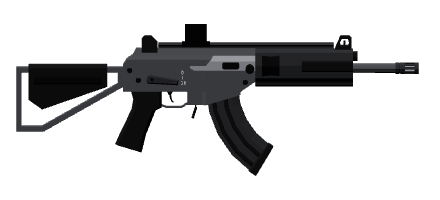
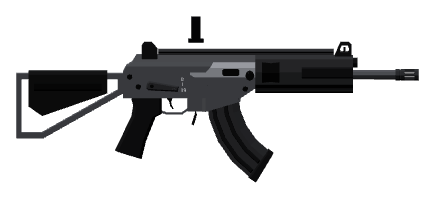
레드도트 정조준 가림 수정: 얇은 테두리·넓은 창, 눈 가까이, 앞쪽 부품 위로 올림
Claude-Session: https://claude.ai/code/session_01V25GXjxPokQixAMpYjxiC2

Changed region(s): [[0.0295, 0.06, 0.975, 0.93]]

diff --git a/models.js b/models.js
@@ -33,19 +33,22 @@ const VIEW_SCALE = 1.714;   // 1인칭 화면용 크기 (기존 돌격소총과 
 const MAX_LEN = 1.6;        // 너무 긴 총은 화면을 가리지 않게 줄임
 const TRIGGER_Z = 0.06;
 // 조준선 높이(총 윗면 기준): 도트사이트, 스코프, 가늠쇠
-const SIGHT = { dot: 0.036, scope: 0.055, none: 0.018 };
+const DOT_Y = 0.036;      // 도트사이트 창 가운데 높이(받침 기준)
+const SIGHT = { dot: 0.006 + DOT_Y, scope: 0.055, none: 0.018 };
 // 모델이 오기 전 상자 길이 (모델 실제 길이 × VIEW_SCALE과 비슷하게)
 const ROUGH_LEN = { ar: 1.2, br: 1.35, dmr: 1.3, smg: 0.9, pistol: 0.36, sg: 1.3, sniper: 1.6 };
 
 function makeDot() {
+  // 얇은 테두리 + 넓은 창: 정조준할 때 테두리가 목표를 가리지 않게
   const sight = new THREE.Group();
-  sight.add(box(0.05, 0.012, 0.09, M.darkMetal, 0, 0, 0));
-  sight.add(box(0.008, 0.055, 0.07, M.darkMetal, -0.024, 0.03, 0));
-  sight.add(box(0.008, 0.055, 0.07, M.darkMetal, 0.024, 0.03, 0));
-  sight.add(box(0.05, 0.008, 0.07, M.darkMetal, 0, 0.058, 0));
-  const lens = new THREE.Mesh(new THREE.PlaneGeometry(0.04, 0.045), new THREE.MeshStandardMaterial({ color: 0x88aacc, transparent: true, opacity: 0.18, roughness: 0, metalness: 1 }));
-  lens.position.set(0, 0.03, 0); sight.add(lens);
-  const dot = new THREE.Mesh(new THREE.SphereGeometry(0.0022, 8, 8), M.redDot); dot.position.set(0, 0.03, -0.01); sight.add(dot);
+  const W = 0.09, H = 0.068, T = 0.004, D = 0.03;
+  sight.add(box(W * 0.7, 0.006, 0.05, M.darkMetal, 0, 0, 0));                       // 받침
+  sight.add(box(T, H, D, M.darkMetal, -(W + T) / 2, H / 2, 0));                  // 왼쪽 테두리
+  sight.add(box(T, H, D, M.darkMetal, (W + T) / 2, H / 2, 0));                   // 오른쪽 테두리
+  sight.add(box(W + T * 2, T, D, M.darkMetal, 0, H + T / 2, 0));                 // 위 테두리
+  const lens = new THREE.Mesh(new THREE.PlaneGeometry(W, H - 0.003), new THREE.MeshStandardMaterial({ color: 0x88aacc, transparent: true, opacity: 0.12, roughness: 0, metalness: 1, depthWrite: false }));
+  lens.position.set(0, (H + 0.003) / 2, 0); sight.add(lens);
+  const dot = new THREE.Mesh(new THREE.SphereGeometry(0.0024, 8, 8), M.redDot); dot.position.set(0, DOT_Y, -0.005); sight.add(dot);
   sight.position.set(0, 0.006, -0.02);
   return sight;
 }
@@ -77,7 +80,7 @@ export function makeGun(id) {
   if (G.optic === 'scope') optic = makeScope();
   if (optic) g.add(optic);
   const muzzle = new THREE.Object3D(); muzzle.position.set(0, -0.03, TRIGGER_Z - L * 0.62); g.add(muzzle);
-  g.userData = { id: G.id, cls: G.cls, mag, muzzle, optic, tmp, sightHeight: SIGHT[G.optic], len: L };
+  g.userData = { id: G.id, cls: G.cls, mag, muzzle, optic, tmp, opticType: G.optic, sightHeight: SIGHT[G.optic], len: L };
   const magY = mag.position.y;
   g.userData.magDrop = amt => { mag.position.y = magY - amt; };
   g.userData.boltPull = () => {};
@@ -177,9 +180,9 @@ function upgradeGun(g, src) {
   if (slideB) ud.slideKick = slide(slideB, back, 0.05);
   // 조준경 받침이 총 몸통보다 낮게 묻히는 모델이 있어서, 조준경 자리의 실제 윗면을 재서 그 위로 올림
   if (ud.optic) {
+    // 스코프: 조준경 자리부터 눈 쪽(뒤)까지. 도트사이트: 창 너머 앞쪽 총구까지 전부 (가늠쇠 받침 등이 창 안에 보이지 않게)
     const hs = ud.cls === 'sniper' ? 0.18 : 0.06, oz = ud.optic.position.z;
-    // 조준경 자리부터 눈 쪽(뒤)까지: 뒤쪽이 더 높으면 조준선을 가리므로
-    const top = topNear(model, g, oz - hs, 9, ['rear sights', 'front sights']);
+    const top = topNear(model, g, ud.opticType === 'dot' ? -9 : oz - hs, 9, ['rear sights', 'front sights']);
     if (top > 0.002) { ud.optic.position.y += top; ud.sightHeight += top; }
   }
   else ud.sightHeight = topNear(model, g, -9, 9, []) + 0.004;   // 가늠자: 총에서 가장 높은 곳이 조준선

diff --git a/main.js b/main.js
@@ -60,7 +60,9 @@ function vGun(id) {
 const HIP = { long: new THREE.Vector3(0.15, -0.088, -0.47), pistol: new THREE.Vector3(0.13, -0.1, -0.5) };
 const ADS_Z = { sniper: -0.22, pistol: -0.48, sg: -0.46 };
 const hipFor = cls => HIP[cls === 'pistol' ? 'pistol' : 'long'];
-const adsFor = g => new THREE.Vector3(0, -g.userData.sightHeight, ADS_Z[g.userData.cls] ?? (g.userData.optic ? -0.3 : -0.5));
+// 도트사이트는 눈 가까이 당겨서 창이 넓게 보이게 (총 종류와 상관없이 같은 거리)
+const adsZ = ud => ud.opticType === 'dot' ? -0.19 : ADS_Z[ud.cls] ?? (ud.optic ? -0.3 : -0.5);
+const adsFor = g => new THREE.Vector3(0, -g.userData.sightHeight, adsZ(g.userData));
 
 const G = id => GUNS[id] || GUNS[DEFAULT_LOADOUT[0]];
 const heavy = id => { const c = G(id).cls; return c === 'sniper' || c === 'sg'; };
@@ -1155,4 +1157,4 @@ loop();
 
 // 테스트용 핸들
 setMuted(muted);
-window.__fps = { me, others, hideView: v => { testHideView = v; }, testAds: v => { rightDown = v; }, vGun, get gunPicking() { return gunPicking; }, selectGun, chooseSlot, passGun, get hostGame() { return hostGame; }, get bot() { return bot; }, get locked() { return locked; }, get phase() { return phase; }, onMessage, choose: id => choose(id, null) };
+window.__fps = { me, others, hideView: v => { testHideView = v; }, testAds: v => { rightDown = v; }, testFire: v => { mouseDown = v; if (v) locked = true; }, vGun, get gunPicking() { return gunPicking; }, selectGun, chooseSlot, passGun, get hostGame() { return hostGame; }, get bot() { return bot; }, get locked() { return locked; }, get phase() { return phase; }, onMessage, choose: id => choose(id, null) };
